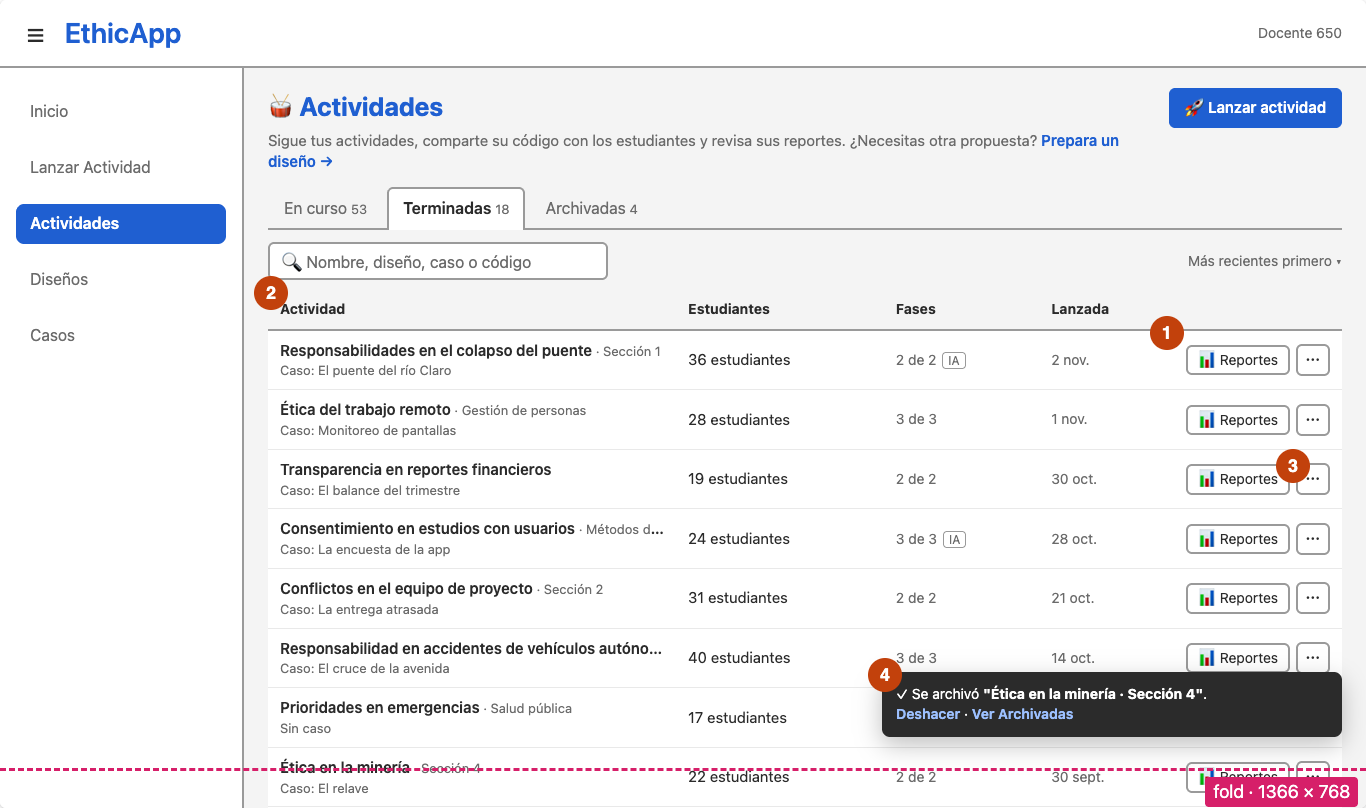
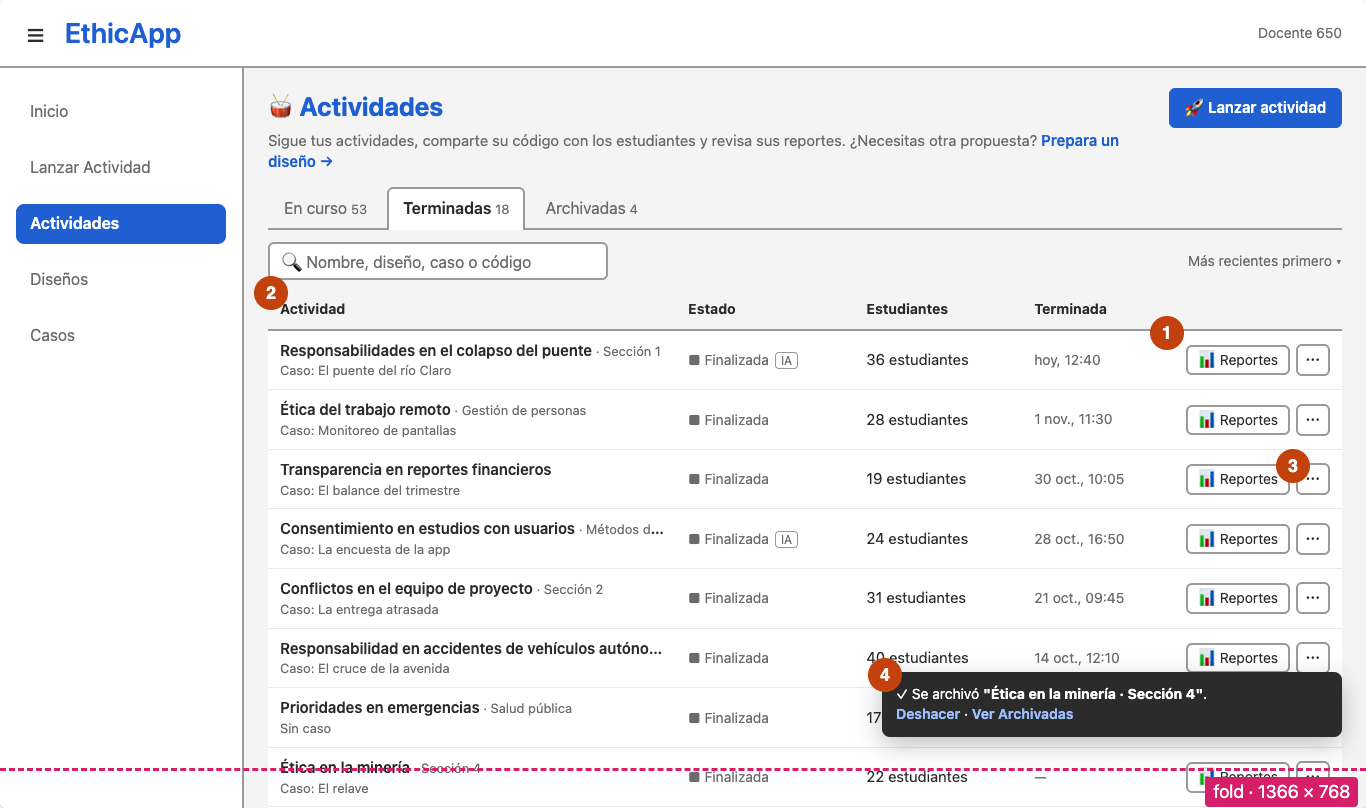
Record the activities list decisions of 2026-11-03
An activity's end time is recorded in sessions.finished_at and shown in
Terminadas; rows show the status and the participants, with no response
count; only a finished activity can be archived, in the page and in the
server; archiving changes nothing for students.

diff --git a/docs/design/activities-index/wireframes.html b/docs/design/activities-index/wireframes.html
@@ -165,16 +165,17 @@
   <table class="roles">
     <tr><th></th><th>Actividades (this proposal)</th><th>Activity dashboard</th></tr>
     <tr><td><b>Job</b></td><td>Find an activity, see where each one stands, hand out its code, get to its reports, archive the finished ones.</td><td>Run one activity: start phases, follow the responses, end it.</td></tr>
-    <tr><td><b>What a row says</b></td><td>Phase and mode, or "Sin iniciar"; how many students joined; the access code; when it was launched.</td><td>Everything about one activity.</td></tr>
+    <tr><td><b>What a row says</b></td><td>Its status (Sin iniciar, the phase and its mode, or Finalizada); how many students joined; the access code while it runs; when it was launched or ended.</td><td>Everything about one activity.</td></tr>
     <tr><td><b>Primary action</b></td><td>"Lanzar actividad"; per row "Abrir panel" (en curso) or "Reportes" (terminadas); "Restaurar" (archivadas).</td><td>"Iniciar fase siguiente", "Terminar actividad", "Reportes".</td></tr>
     <tr><td><b>Bridge</b></td><td>The role line links to Lanzar actividad; "Lanzar de nuevo" opens the wizard with the same design.</td><td>The browser's back button returns to the list with its tab and filters, which live in the URL.</td></tr>
   </table>
 
-  <div class="open"><b>Open questions</b> (see the README):
+  <div class="open"><b>Decisions, 2026-11-03</b> (see the README):
     <ul>
-      <li>When did an activity end? <code>sessions</code> stores no end time; the Terminadas tab shows the launch date until it does.</li>
-      <li>Should a finished activity's row show its response count, which needs a server query per activity?</li>
-      <li>Can an activity in progress be archived? Today only finished ones can.</li>
+      <li>An activity's end time is recorded (<code>sessions.finished_at</code>), and Terminadas shows it.</li>
+      <li>Rows show the status and the participants; there is no response count.</li>
+      <li>Only a finished activity can be archived, in the page and in the server.</li>
+      <li>Archiving changes nothing for students: a finished activity and an archived one look the same to them.</li>
     </ul>
   </div>
 
@@ -211,9 +212,9 @@
   <div id="B"></div>
   <ol class="notes">
     <li><b>"Reportes" is the visible action</b> of a finished activity: it opens the reports page directly, one click instead of two.</li>
-    <li><b>Columns for a finished activity:</b> students who took part, phases completed, and the launch date. The code column goes away; it is no longer useful.</li>
+    <li><b>Columns for a finished activity:</b> its status, the students who took part, and when it ended (<code>sessions.finished_at</code>). An activity finished before the end time was recorded shows "—". The code column goes away.</li>
     <li><b>The row menu:</b> Abrir panel, Lanzar de nuevo (the wizard on this design, <code>#!/activities/new/:designId</code>), Ver diseño, Archivar.</li>
-    <li><b>After archiving,</b> a notice names the activity and offers "Deshacer". Today the card disappears without a word.</li>
+    <li><b>After archiving,</b> a notice names the activity and offers "Deshacer". Today the card disappears without a word. Students see nothing different, so the notice does not mention them.</li>
   </ol>
 
   <h2>C. 1366 × 768: activities that have not started</h2>
@@ -261,16 +262,16 @@
     { n: "Accesibilidad en el diseño de software", d: "Interacción humano-computador", ds: "Accesibilidad en el diseño de software", cs: "El portal de trámites", st: "run", ph: 1, of: 2, mode: "Individual", stu: 33, code: "k00471", at: "15 oct." },
   ];
   const FINISHED = [
-    { n: "Responsabilidades en el colapso del puente", d: "Sección 1", ds: "Responsabilidades en el colapso del puente", cs: "El puente del río Claro", of: 2, stu: 36, at: "2 nov.", ai: true },
-    { n: "Ética del trabajo remoto", d: "Gestión de personas", ds: "Ética del trabajo remoto", cs: "Monitoreo de pantallas", of: 3, stu: 28, at: "1 nov." },
-    { n: "Transparencia en reportes financieros", d: "", ds: "Transparencia en reportes financieros", cs: "El balance del trimestre", of: 2, stu: 19, at: "30 oct." },
-    { n: "Consentimiento en estudios con usuarios", d: "Métodos de investigación", ds: "Consentimiento en estudios con usuarios", cs: "La encuesta de la app", of: 3, stu: 24, at: "28 oct.", ai: true },
-    { n: "Conflictos en el equipo de proyecto", d: "Sección 2", ds: "Conflictos en el equipo de proyecto", cs: "La entrega atrasada", of: 2, stu: 31, at: "21 oct." },
-    { n: "Responsabilidad en accidentes de vehículos autónomos", d: "", ds: "Responsabilidad en accidentes de vehículos autónomos", cs: "El cruce de la avenida", of: 3, stu: 40, at: "14 oct." },
-    { n: "Prioridades en emergencias", d: "Salud pública", ds: "Prioridades en emergencias", cs: "Sin caso", of: 2, stu: 17, at: "7 oct." },
-    { n: "Ética en la minería", d: "Sección 4", ds: "Ética en la minería", cs: "El relave", of: 2, stu: 22, at: "30 sept." },
-    { n: "Datos genéticos y seguros", d: "", ds: "Datos genéticos y seguros", cs: "El examen de ADN", of: 2, stu: 14, at: "23 sept." },
-    { n: "Drones y vigilancia", d: "Sección 1", ds: "Drones y vigilancia", cs: "El barrio vigilado", of: 2, stu: 29, at: "16 sept." },
+    { n: "Responsabilidades en el colapso del puente", d: "Sección 1", ds: "Responsabilidades en el colapso del puente", cs: "El puente del río Claro", of: 2, stu: 36, at: "2 nov.", end: "hoy, 12:40", ai: true },
+    { n: "Ética del trabajo remoto", d: "Gestión de personas", ds: "Ética del trabajo remoto", cs: "Monitoreo de pantallas", of: 3, stu: 28, at: "1 nov.", end: "1 nov., 11:30" },
+    { n: "Transparencia en reportes financieros", d: "", ds: "Transparencia en reportes financieros", cs: "El balance del trimestre", of: 2, stu: 19, at: "30 oct.", end: "30 oct., 10:05" },
+    { n: "Consentimiento en estudios con usuarios", d: "Métodos de investigación", ds: "Consentimiento en estudios con usuarios", cs: "La encuesta de la app", of: 3, stu: 24, at: "28 oct.", end: "28 oct., 16:50", ai: true },
+    { n: "Conflictos en el equipo de proyecto", d: "Sección 2", ds: "Conflictos en el equipo de proyecto", cs: "La entrega atrasada", of: 2, stu: 31, at: "21 oct.", end: "21 oct., 09:45" },
+    { n: "Responsabilidad en accidentes de vehículos autónomos", d: "", ds: "Responsabilidad en accidentes de vehículos autónomos", cs: "El cruce de la avenida", of: 3, stu: 40, at: "14 oct.", end: "14 oct., 12:10" },
+    { n: "Prioridades en emergencias", d: "Salud pública", ds: "Prioridades en emergencias", cs: "Sin caso", of: 2, stu: 17, at: "7 oct.", end: "—" },
+    { n: "Ética en la minería", d: "Sección 4", ds: "Ética en la minería", cs: "El relave", of: 2, stu: 22, at: "30 sept.", end: "—" },
+    { n: "Datos genéticos y seguros", d: "", ds: "Datos genéticos y seguros", cs: "El examen de ADN", of: 2, stu: 14, at: "23 sept.", end: "—" },
+    { n: "Drones y vigilancia", d: "Sección 1", ds: "Drones y vigilancia", cs: "El barrio vigilado", of: 2, stu: 29, at: "16 sept.", end: "—" },
   ];
 
   const plural = (n, one, many) => `${n} ${n === 1 ? one : many}`;
@@ -291,9 +292,9 @@
   }
 
   function finishedTable(rows) {
-    const head = "<tr><th>Actividad</th><th>Estudiantes</th><th>Fases</th><th>Lanzada</th><th></th></tr>";
+    const head = "<tr><th>Actividad</th><th>Estado</th><th>Estudiantes</th><th>Terminada</th><th></th></tr>";
     const body = rows.map((a) => `<tr><td class="t"><div class="title">${title(a)}</div><div class="meta">${meta(a)}</div></td>`
-      + `<td>${plural(a.stu, "estudiante", "estudiantes")}</td><td class="sub">${a.of} de ${a.of}${a.ai ? '<span class="ai">IA</span>' : ""}</td><td class="sub">${a.at}</td>`
+      + `<td><span class="st proc">■ Finalizada</span>${a.ai ? '<span class="ai">IA</span>' : ""}</td><td>${plural(a.stu, "estudiante", "estudiantes")}</td><td class="sub"${a.end === "—" ? ` title="Lanzada el ${a.at}"` : ""}>${a.end}</td>`
       + '<td class="acts"><span class="btn sm">📊 Reportes</span><span class="kebab">⋯</span></td></tr>').join("");
     return `<table class="dt" data-role="activities"><thead>${head}</thead><tbody>${body}</tbody></table>`;
   }
@@ -320,7 +321,7 @@
     const search = '<span class="search">🔍 Nombre, diseño, caso o código</span>';
     if (tab === "fin") {
       return pageHead + tabs + `<div class="tools">${search}<span class="sub sort">Más recientes primero ▾</span></div>` + finishedTable(FINISHED.slice(0, rows))
-        + `<div class="foot"><span>Mostrando ${Math.min(rows, FINISHED.length)} de 18 · <span style="color:var(--accent)">Mostrar más</span></span><span>Archivar una actividad la quita de esta lista; sus reportes se conservan.</span></div>`;
+        + `<div class="foot"><span>Mostrando ${Math.min(rows, FINISHED.length)} de 18 · <span style="color:var(--accent)">Mostrar más</span></span><span>Archivar una actividad terminada la quita de esta lista; sus reportes se conservan.</span></div>`;
     }
     const chip = (k, label) => `<span class="chip${filter === k ? " on" : ""}" data-k="${k}">${label}</span>`;
     const tools = `<div class="tools">${search}${chip("all", "Todas")}${chip("wait", "Sin iniciar · 9")}${chip("run", "Con fase en curso")}<span class="sub sort">Más recientes primero ▾</span></div>`;

diff --git a/docs/design/activities-index/README.md b/docs/design/activities-index/README.md
@@ -97,14 +97,16 @@ The page was measured with headless Chrome. The numbers are the same at 1920, 13
 
 ### Terminadas (frame B)
 
-- **Columns:** activity, students who took part, phases ("2 de 2", with the "IA" mark) and the launch date. The code goes away.
+- **Columns:** activity, status ("■ Finalizada", with the "IA" mark), students who took part, and when it ended. The code goes away.
+- **Terminada** is the date and time the teacher ended the activity (`sessions.finished_at`, see Decisions), relative when recent. Activities finished before the migration have no end time and show "—", with the launch date on hover.
 - **"📊 Reportes" is the visible action:** the reports page (`#!/activities/:id/reports`), one click instead of two.
 - **The "⋯" menu** holds Abrir panel, Lanzar de nuevo (the wizard on the same design, `#!/activities/new/:designId`), Ver diseño and Archivar.
-- **The footer** says what archiving does: it removes the activity from this list and keeps its reports.
+- **The footer** says what archiving does: it removes the activity from this list and keeps its reports. Students see a finished activity and an archived one the same way, so the notice says nothing about them.
 
 ### Archivadas
 
 - The tab is not drawn. It uses the Terminadas table, with "Restaurar" as the visible action and Reportes, Abrir panel and Ver diseño in the menu.
+- Only finished activities reach this tab. Restoring one returns it to Terminadas.
 
 ### A new teacher (frame E)
 
@@ -141,7 +143,7 @@ Each notice disappears after a few seconds and can be dismissed. The page stays 
 | "Diseño usado" with the design's type | The design in the meta line when the activity was renamed; no type |
 | Case line | The meta line |
 | "Código de acceso" | The Código column, with copy |
-| "Fecha de inicio … (UTC)" | Lanzada, in the browser's time zone |
+| "Fecha de inicio … (UTC)" | Lanzada, in the browser's time zone; Terminada for finished activities |
 | "Ver" | "Abrir panel"; the name is a link too |
 | "Archivar" without feedback | In the Terminadas menu, with a notice and undo |
 | "Desarchivar" | "Restaurar" |
@@ -158,22 +160,28 @@ Each notice disappears after a few seconds and can be dismissed. The page stays 
 - `GET /activities` (`backend/controllers/activities/activities-teacher.js:87`) returns the session's `status`, `time`, `code`, `archived` and the whole design document. The rows also need:
   - the current phase's number and mode (`sessions.current_stage`, joined to `stages`) and the number of phases;
   - the number of students who joined (`sesusers` with role `A`, as the dashboard's bar counts them);
-  - `ai_services_enabled`.
+  - `ai_services_enabled`;
+  - `finished_at`, for finished activities.
 - The design document is used for its title and case. Returning those fields alone would make the response much smaller for teachers with many activities.
+
+**End time**
+- A migration adds `sessions.finished_at timestamptz NULL`. Existing finished sessions keep NULL: their end time is unknown, and guessing it from responses would record a time nobody saw.
+- `FINISH_SESSION_SQL` (`backend/helpers/activity-finish-helper.js`) sets it in the statement that makes the session `finished`, so the teacher's own finish and the finish of a forgotten teacher's open activities (#877) both record it. A finish that resumes a pending finalization keeps the first time.
 
 **Archive**
 - Replace the toggle with an explicit `PATCH /activities/:session_id/archive` taking `{ archived: true | false }`, as cases and designs have. Undo then sends `false`, and a repeated request does no harm.
-- Whether the server also refuses to archive an activity in progress is an open question.
+- Archiving an activity that is not finished is refused with a coded 409, `ACTIVITY_NOT_FINISHED`. Restoring is always allowed.
+- Archived sessions that are not finished may already exist from the toggle. A query in `deploy/README.md` lists them before deploying; whether they are finished or restored is decided then.
 
 **Translations**
 - New keys in `es_CL` and `en_US`. "Actuales" becomes "En curso"; "Desarchivar" becomes "Restaurar".
 
-## Open questions
+## Decisions
 
-- **End time.** `sessions` stores no end time, so "Terminadas" shows the launch date. Recording when the teacher ends an activity needs a migration, and would let the tab say "Terminada el 2 nov.".
-- **Responses in Terminadas.** A response count per activity is a useful signal of what the report holds, at the cost of a heavier query.
-- **Archiving an activity in progress.** Today the page allows it only for finished ones and the server for any. One rule should hold in both.
-- **Archivadas and students.** Whether archiving affects what students see of the activity is not visible from this page. If it does, the notice should say so.
+- **2026-11-03: an activity's end time is recorded.** Most activities are synchronous and last under an hour, but the record of when an activity ended is worth keeping. Terminadas shows it.
+- **2026-11-03: the list shows each activity's status and its participants,** with no response count. The status is "Sin iniciar" (`initiated`), "Fase n de m · Grupal" or "· Individual" (`in_progress`) or "Finalizada" (`finished`).
+- **2026-11-03: only a finished activity can be archived.** The page and the server apply the same rule.
+- **2026-11-03: archiving changes nothing for students.** They see a finished activity and an archived one the same way.
 
 ## Out of scope
 
